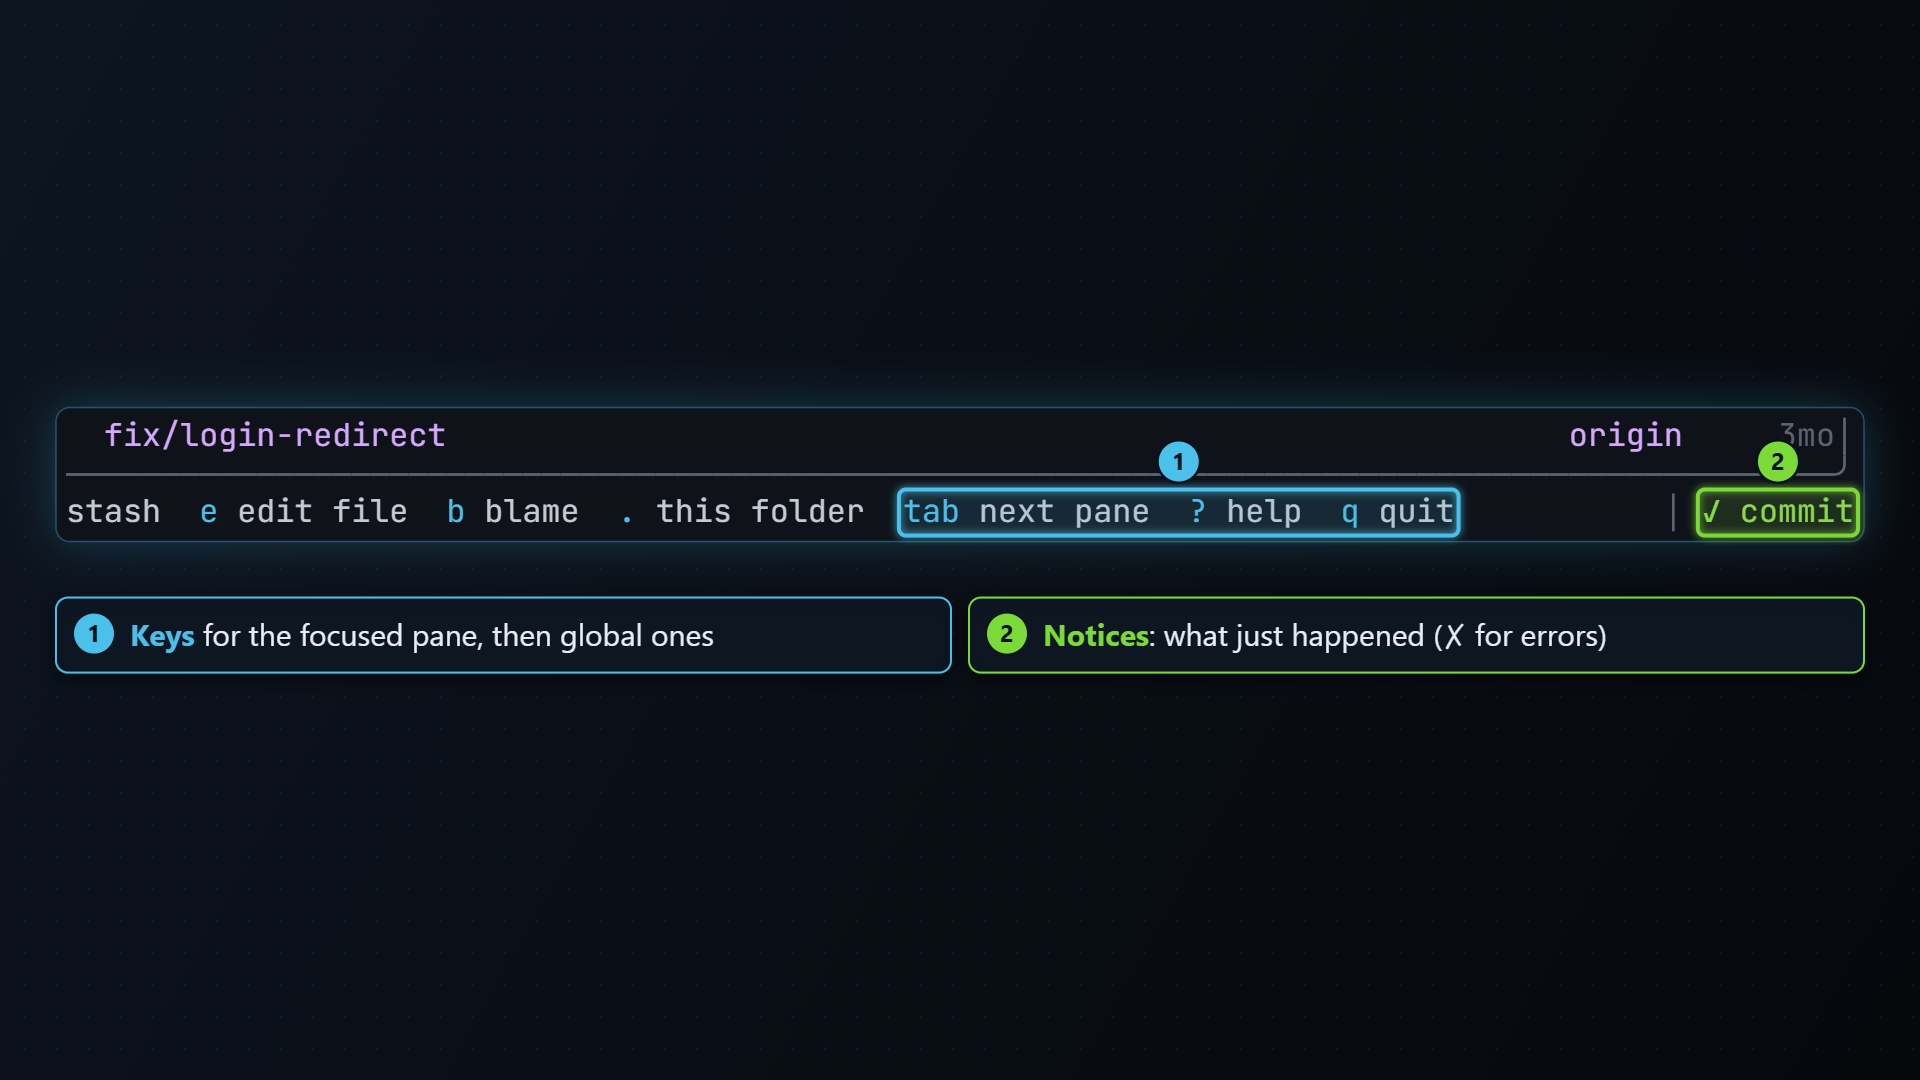
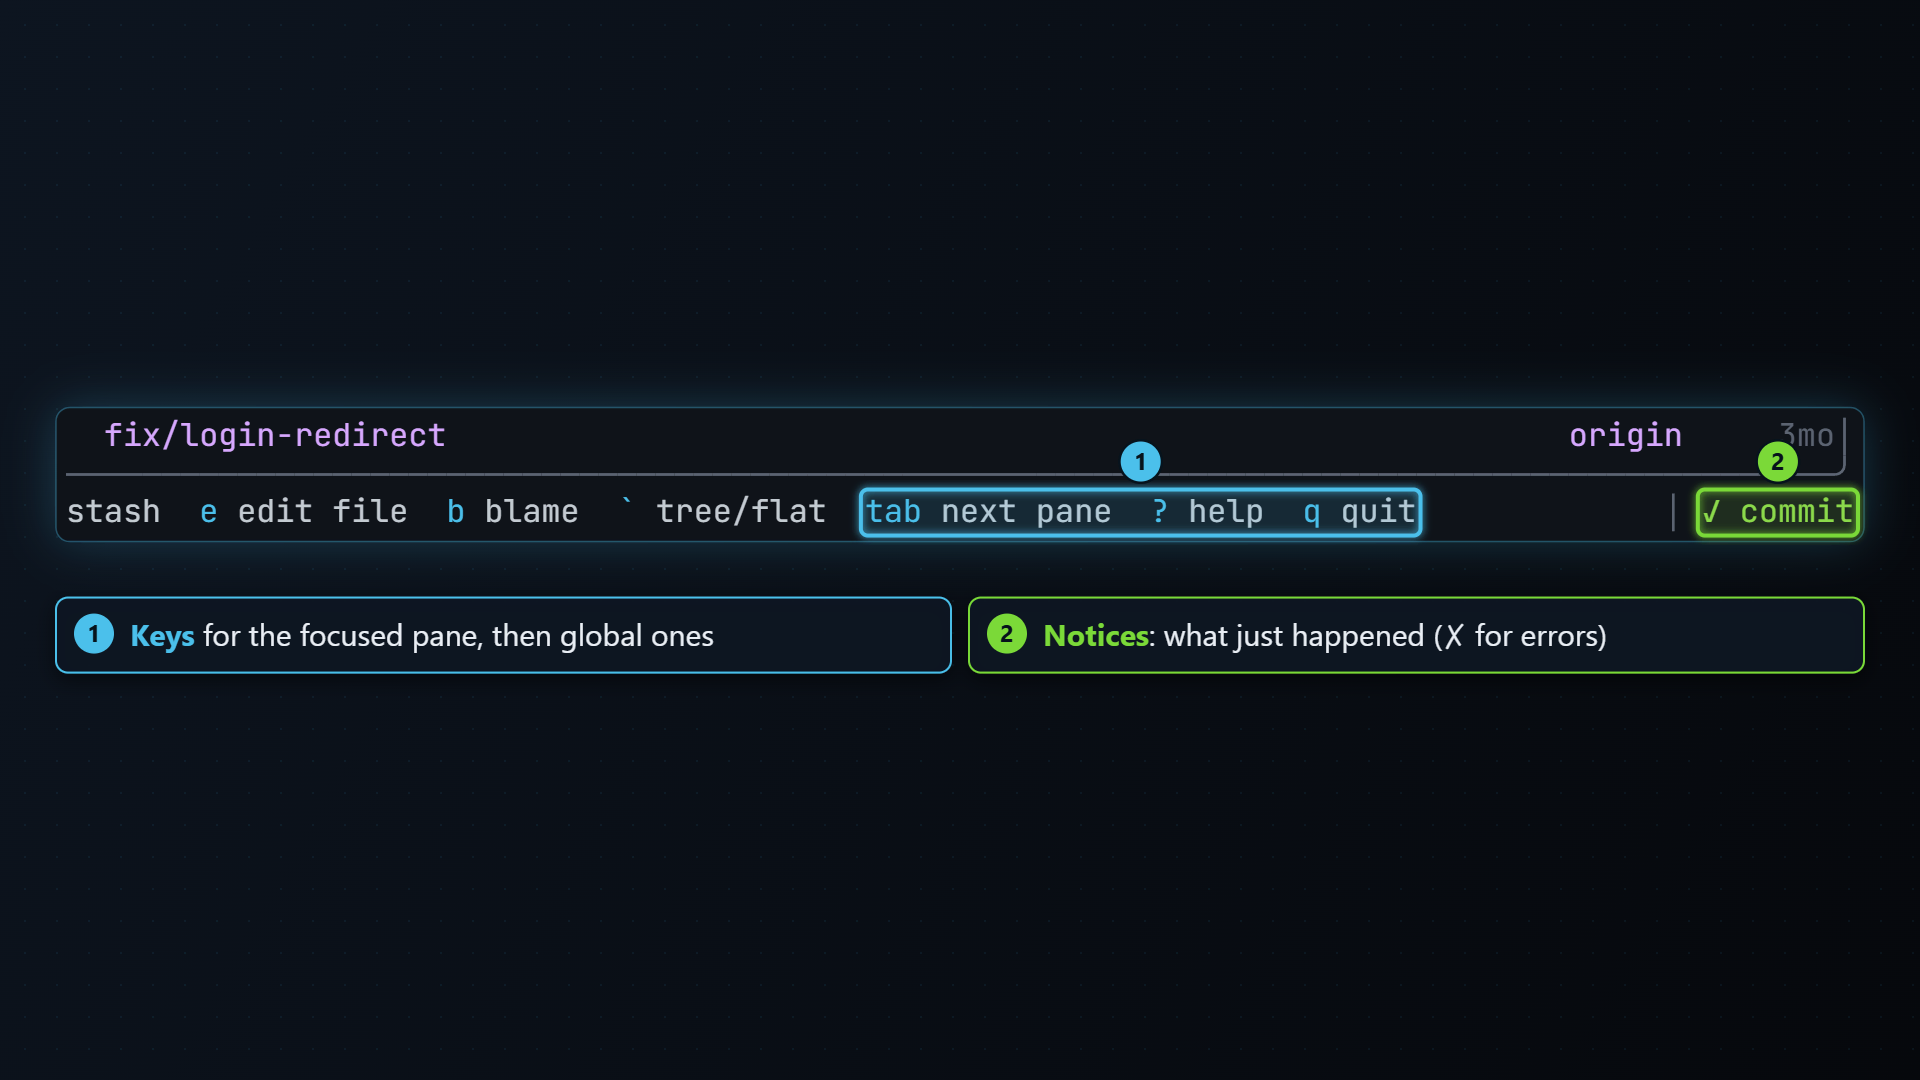
docs(status): Describe the folder tree and status.tree
Add The folder tree to the Status page with two screenshots, the
` - = keys to the key tables, status.tree to the settings, and the git
commands a folder's stage, discard and diff run. Recapture the shots
whose help bar or palette now lists tree/flat.

Changed region(s): [[0.3438, 0.3972, 0.7812, 0.5194]]

diff --git a/crates/tt-git-testkit/examples/docshots.rs b/crates/tt-git-testkit/examples/docshots.rs
@@ -100,6 +100,20 @@ fn main() {
         ("status-staged", &["2", "j", "space"]),
         ("after-commit", &["2", "c", "text:Bump React to 19.2", "enter"]),
     ];
+    // Status as a folder tree, then discarding a folder in it. Before the
+    // shots below change the files.
+    let tree = Config {
+        status: tt_git_tui::config::StatusConfig { tree: true },
+        ..Config::default()
+    };
+    for (name, keys) in [
+        ("status-tree", &["2"][..]),
+        ("status-tree-discard", &["2", "G", "k", "k", "d"]),
+    ] {
+        let mut driver = TestDriver::with_size(tree.clone(), &sb, WIDTH, HEIGHT);
+        press(&mut driver, keys);
+        save(&out, name, &driver);
+    }
     for (name, keys) in shots {
         let mut driver = TestDriver::with_size(Config::default(), &sb, WIDTH, HEIGHT);
         press(&mut driver, keys);

diff --git a/docs/configuration.md b/docs/configuration.md
@@ -26,6 +26,9 @@ lanes = true                    # draw the lanes at startup; L in the graph togg
 filter_to_cwd = false           # started in a subfolder, show only its commits and Status files (. toggles; --filter-to-cwd / --no-filter-to-cwd override)
 # message_presets = ["^feat", "^fix"]  # regexes tab steps through in the / message filter; unset, the repo's 8 most used subject prefixes
 
+[status]
+tree = false                    # list changed files as a folder tree at startup; ` toggles it and saves it here
+
 [branches]
 unmerged_exclude = ["archive"]  # hide unmerged branches whose name contains any of these
 safe_branches = ["master", "main", "production", "prod"]  # never list these on the merged/unmerged tabs
@@ -244,6 +247,7 @@ Write keys as `q`, `Q`, `shift+q`, `ctrl+c`, `alt+enter`, `shift+tab`,
 | `next_tab`, `prev_tab`, `pick_base` | `]` `}`, `[` `{`, `b` | branches |
 | `next_tab`, `prev_tab` | `]` `}`, `[` `{` (steps the branches pane's tabs) | graph |
 | `stage_toggle`, `open_staging`, `stage_all`, `discard`, `discard_all`, `ignore`, `commit`, `amend`, `stash`, `continue`, `abort` | `space`, `enter`, `a`, `d`, `D`, `i`, `c`, `A`, `s`, `C`, `X` | status |
+| `toggle_tree`, `collapse_all`, `expand_all` | `` ` ``, `-`, `=` | status |
 | `stash_pop`, `stash_apply`, `stash_drop`, `new_branch`, `expand_details`, `next_tab`, `prev_tab`, `filter` | `space`, `a`, `d`, `n`, `enter`, `]` `}`, `[` `{`, `/` | stash |
 | `open_worktree`, `remove_worktree`, `new_branch`, `copy`, `next_tab`, `prev_tab`, `filter` | `enter`/`space`, `d`, `n`, `c`, `]` `}`, `[` `{`, `/` | worktrees |
 | `stage_toggle`, `switch_side`, `toggle_line_mode`, `select_range`, `discard`, `commit`, `close_details` | `space`, `tab`, `a`, `v`, `d`, `c`, `esc` | stage |

diff --git a/README.md b/README.md
@@ -146,6 +146,8 @@ command palette, which lists built-in commands and plugin actions.
 | | `e` | open the file in your editor at its first change (a conflicted file: at its first conflict marker) |
 | | `b` | blame the file in the working tree: who last changed each line, when and in which commit |
 | | `.` | list only the files in the folder tt-git was started in; `a`, `D` and `s` then act on it alone |
+| | `` ` `` | list the files as a folder tree ↔ flat (saved to config.toml); in the tree, `space`, `d` and `i` on a folder act on everything under it |
+| | `enter` (on a folder) / `-` / `=` | fold or open the folder / fold all / open all |
 | | `C` / `X` | continue / abort a merge, rebase, cherry-pick or revert |
 | stash tab | `space` / `a` | pop / apply the selected stash (pop drops it once applied) |
 | | `d` | drop it (asks first) |
